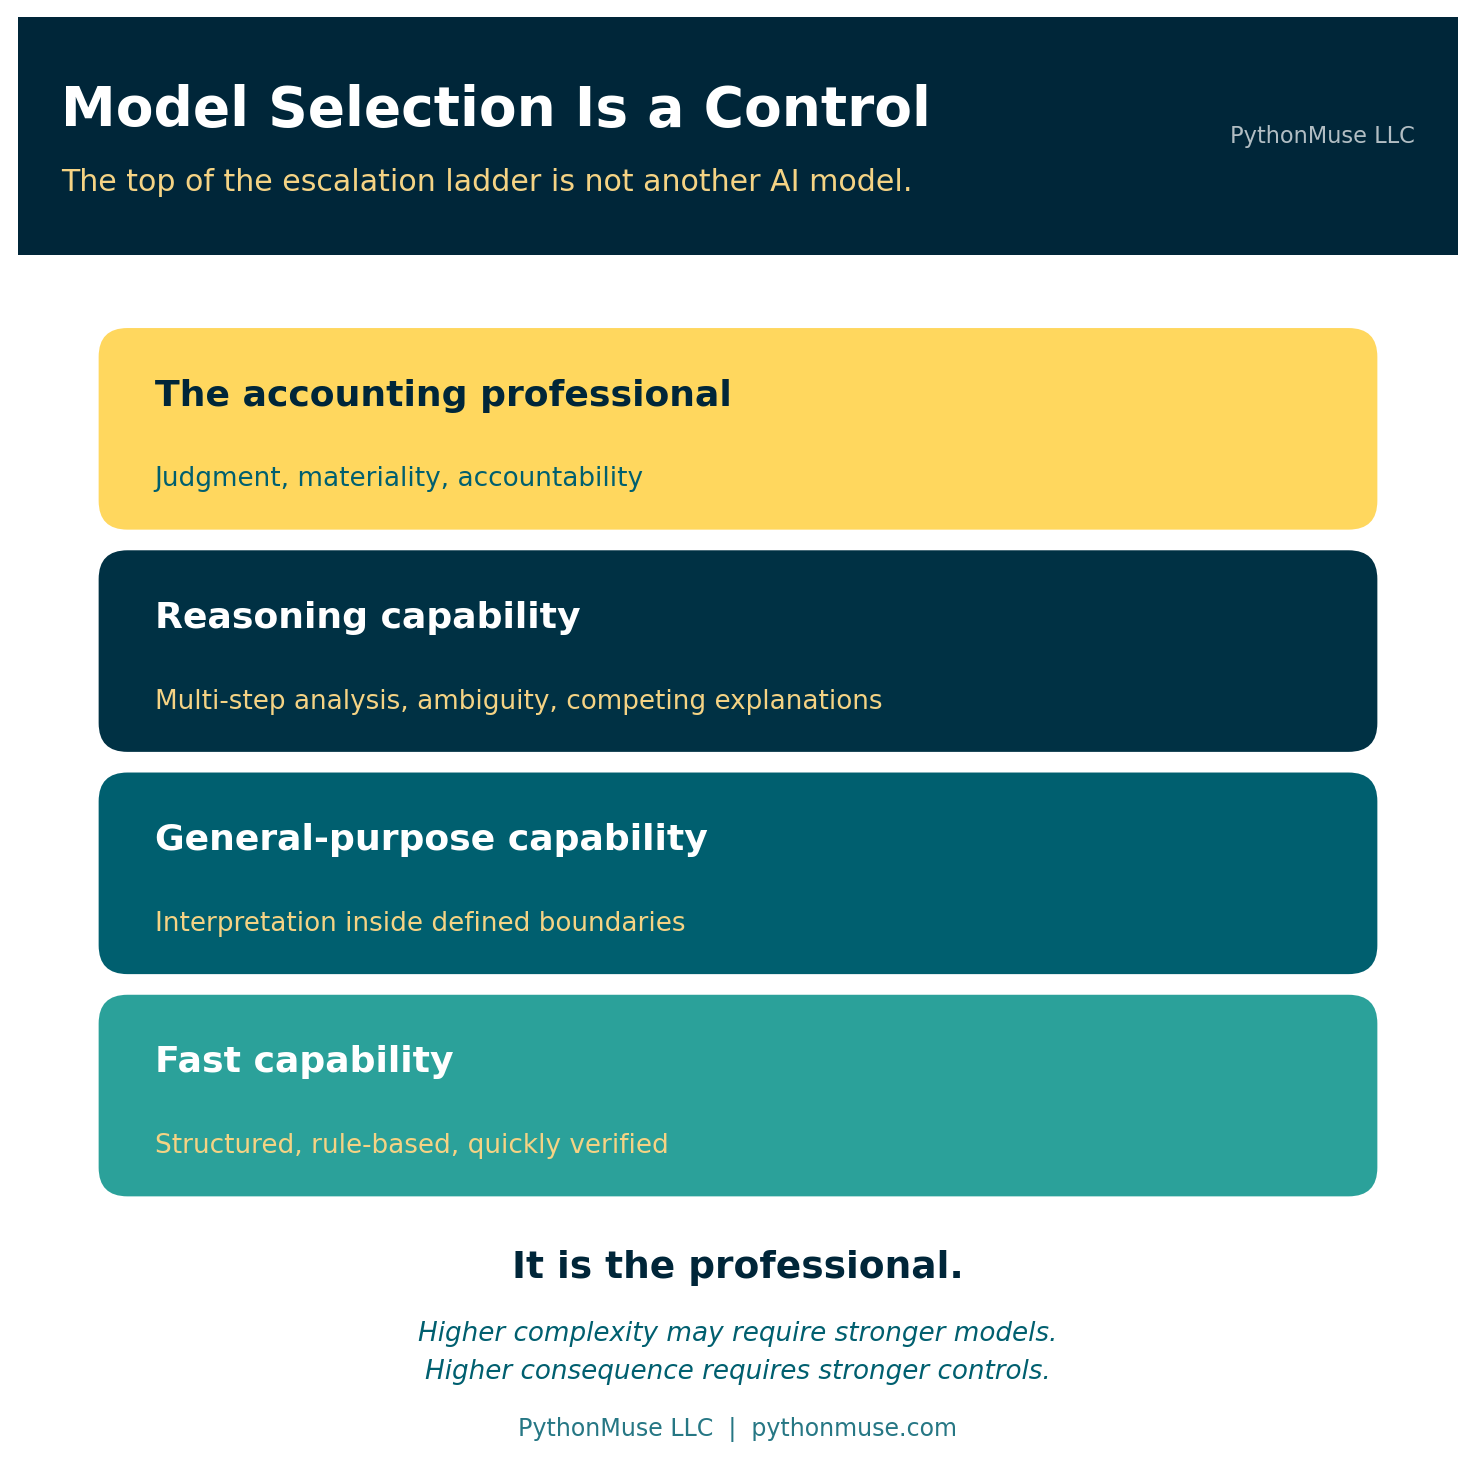
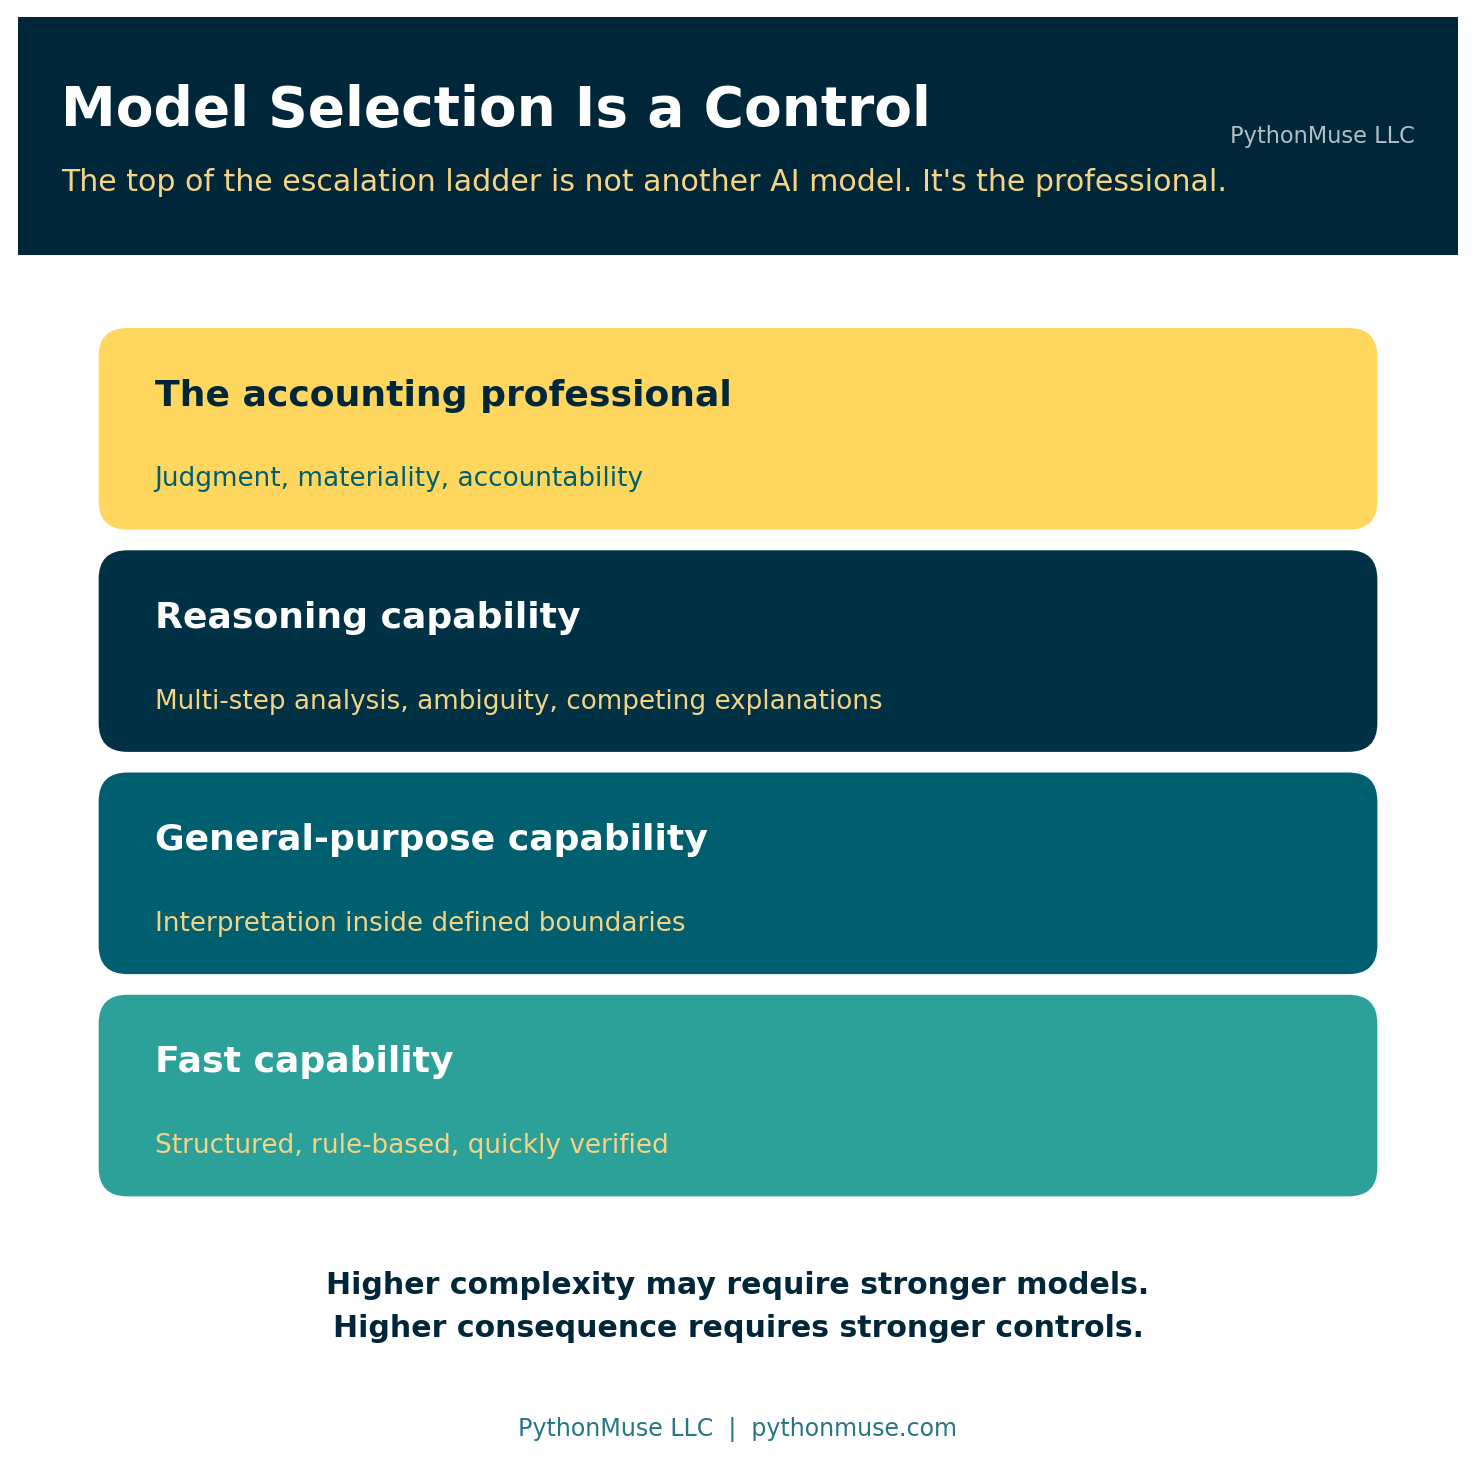
Fix disconnected caption in the social square visual (Article 36)
"It is the professional." floated at the bottom of the square, after
four boxes, disconnected from the header line it was meant to
complete -- and redundant with the top box already reading "The
accounting professional." Folded the payoff into the header subtitle
instead, so it reads as one complete thought, and let the closing
lines carry the complexity/consequence point on their own.

Changed region(s): [[0.2183, 0.842, 0.7797, 0.9356], [0.7173, 0.0936, 0.7797, 0.1247], [0.6237, 0.0936, 0.6861, 0.1247]]

diff --git a/articles/36-model-selection-is-a-control/generate_visuals.py b/articles/36-model-selection-is-a-control/generate_visuals.py
@@ -397,7 +397,7 @@ def make_social_square():
 
     header_h = 0.165
     add_header_bar(fig, "Model Selection Is a Control",
-                   "The top of the escalation ladder is not another AI model.",
+                   "The top of the escalation ladder is not another AI model. It's the professional.",
                    height=header_h)
 
     rungs = list(reversed(ESCALATION))
@@ -418,12 +418,10 @@ def make_social_square():
                     sub=desc, subsize=10.5, sub_color=sub_color,
                     title_offset=0.18, sub_offset=0.26)
 
-    fig.text(0.5, 0.132, "It is the professional.", fontsize=15,
-             color=DEEP_NAVY, ha="center", va="center", fontweight="bold")
-    fig.text(0.5, 0.073,
+    fig.text(0.5, 0.105,
              "Higher complexity may require stronger models.\nHigher consequence requires stronger controls.",
-             fontsize=10.5, color=OCEAN_TEAL, ha="center", va="center",
-             style="italic", linespacing=1.6, alpha=1.0)
+             fontsize=12, color=DEEP_NAVY, ha="center", va="center",
+             fontweight="bold", linespacing=1.6)
     fig.text(0.5, 0.020, "PythonMuse LLC  |  pythonmuse.com", fontsize=9.5,
              color=OCEAN_TEAL, ha="center", va="center", alpha=0.85)
 
